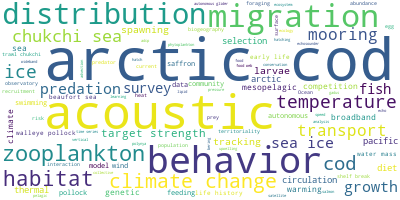
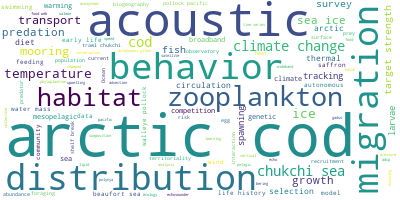
Deary 2021

diff --git a/README.md b/README.md
@@ -168,6 +168,8 @@ Notes (author, year, journal in file header) on readings.  Top of each note docu
      * This paper presents evidence of jellyfish avoidance by Arctic cod in a shallow bay of the Canadian Arctic Archipelago.  The authors describe observations of partitioning which they attribute primarily to avoidance. 
 * [Dahlke2018SA - Northern cod species face spawning habitat losses if global warming exceeds 1.5°C](https://github.com/leviner/ReadingList/tree/master/papers/arctic/fishes/Dahlke2018SA.md) 
      * Investigating the mpact of temperature and pCO2 on egg and larval development from broodstock. Additionally, they model loss of appropriate spawning areas based on future climate scenarios. 
+* [Deary2021PB - Seasonal abundance, distribution, and growth of the early life stages of polar cod (Boreogadus saida) and safron cod (Eleginus gracilis) in the US Arctic](https://github.com/leviner/ReadingList/tree/master/papers/arctic/fishes/Deary2021PB.md) 
+     * Early life history stages of Arctic and saffron cod in 2017, using trhe Vestfals 2021 model to replicate 2017 from the bottom trawl data. 
 * [DeRobertis2015DSRIIa - Species and size selectivity of two midwater trawls used in an acoustic survey of the Alaska Arctic](https://github.com/leviner/ReadingList/tree/master/papers/arctic/fishes/DeRobertis2015DSRIIa.md) 
      * De Robertis et al. conducted a trawl selectivity experiment using recapture nets on a modified-Marinovich trawl to asses the species- and size-specific selectivity.  There is significant escapement, even for the most abundant species, and this analysis is required to properly calculate biomass/abundance estimates for juvenile Arctic cod. 
 * [DeRobertis2017DSRIIb - Abundance and distribution of Arctic cod (Boreogadus saida) and other pelagic fishes over the U.S. Continental Shelf of the Northern Bering and Chukchi Seas](https://github.com/leviner/ReadingList/tree/master/papers/arctic/fishes/DeRobertis2017DSRIIb.md) 
@@ -311,6 +313,8 @@ Notes (author, year, journal in file header) on readings.  Top of each note docu
  
 * [Ashjian2017DSRII - Mesozooplankton abundance and distribution in association with hydrography on Hanna Shoal, NE Chukchi Sea, during August 2012 and 2013](https://github.com/leviner/ReadingList/tree/master/papers/arctic/plankton/Ashjian2017DSRII.md) 
      * Description of the late-summer zooplankton community composition at Hannah Shoal during August of 2012 and 2013, focusing on copepods and euphausiids of interest for bowhead whales. 
+* [Ashjian2021PLOS - Lingering Chukchi Sea sea ice and Chukchi Sea mean winds influence population age structure of euphausiids (krill) found in the bowhead whale feeding hotspot near Pt. Barrow, Alaska](https://github.com/leviner/ReadingList/tree/master/papers/arctic/plankton/Ashjian2021PLOS.md) 
+     *  
 * [Darnis2019PO - Could offspring predation offset the successful reproduction of the arctic copepod Calanus hyperboreus under reduced sea-ice cover conditions?](https://github.com/leviner/ReadingList/tree/master/papers/arctic/plankton/Darnis2019PO.md) 
      * Year-round observations of C. hyperboreus growth and reproduction in the Canadian Beaufort Sea.  Hypothesize top-down control of the C. hyperboreus population by other omnivore species (M. longa, C. glacialis), increased by extended ice-free periods. 
 * [Day2013CSR - The offshore northeastern Chukchi Sea, Alaska: A complex high-latitude ecosystem](https://github.com/leviner/ReadingList/tree/master/papers/arctic/plankton/Day2013CSR.md) 

diff --git a/papers/arctic/fishes/Deary2021PB.md b/papers/arctic/fishes/Deary2021PB.md
@@ -1,0 +1,38 @@
+09/22/21
+## Authors:
+Deary, Alison L and Vestfals, Cathleen D and Logerwell, Elizabeth A and Goldstein, Esther D and Stabeno, Phyllis J and Danielson, Seth L and Hopcroft, Russ R and Duffy-Anderson, Janet T
+## Title:
+Seasonal abundance, distribution, and growth of the early life stages of polar cod (Boreogadus saida) and safron cod (Eleginus gracilis) in the US Arctic
+## Keywords:
+Gadidae, icthyoplankton, forage fishes, chukchi sea, Arctic cod
+## Geographic Coverage
+Chukchi Sea
+## Field Dates:
+06/10/2017 - 09/25/2017
+## Significance:
+Early life history stages of Arctic and saffron cod in 2017, using trhe Vestfals 2021 model to replicate 2017 from the bottom trawl data.
+
+## Notes:
+The goals for the study were to 1) examine distributions and abundance of Arctic cod and saffron cod during ELH stages, 2) estimate daily growth rates, and 3) look at the potential sources using a individual based mofel to compare model outputs and observed distributions.
+
+Samples were collected using a mix of bongo nets, IKMTs, and 3-m beam trawls on 4 different cruises during 2017. Catches were all normalised to CPUE (count per 10m2 of surface area). Growth rates were determined from the change in mean length during the median date of each survey and was gear-specific.
+
+IBM were run based on the model from Vestfals et al., 2021, focussing on the Kotzebue sound spawning population as a result of the high density of ELH fishes found there during the late-spring survey.
+
+Results for Arctic cod:
+- In June, most fishes were found in Kotzebue/Point Hope, north of the strait (note, the survey did nto extend north of this).
+- In late summer, the highest densities were found in the northern survey area near Hannah shoal and Barrow Canyon.
+- Growth rate: 0.27 - 0.53 mm /day. pverall mean of 0.39 mm/day (note Levine et al., 2021 reported 0.54 with a range of 0.24 to 0.89 depending on target strength)
+
+Saffron cod:
+- Lower abundance relative to polar cod, with a core distribition in the south and inshore of Arctic cod
+- In late summer, mostly found nearshore in the central/NE Chukchi.
+
+IBM:
+- Larvae with simulated hatch dates of 15 March to 15 May all show similar trajectories, remaining in the Kotzebue sound region and extending north along the coast in late spring. By late summer, this splits into two groups one that remained inshore along the coast line to the north and another branch of fishes advected offshore.
+
+Kotzebue sound was covered in sea ice during the expetced period of hatch for fishe sin Kotzebue sound, thus sea ice may be important for both species. These fish were likely entrained in the ACC and avected northwards.
+
+It is likely that indnividuals of mixed cohorts were present in the Chukchi Sea. Hatching occurred between January and May, with a peak in April. However there is also likely some sampling bias as the smallest individuals may not be properly retained thus biasing towards larger individuals in spring.
+
+They conclude that Kotzebue sound is likely a major spawning area, however their distributions from the model do not match 2017 distributions from the midwater trawls.

diff --git a/papers/arctic/plankton/Ashjian2021PLOS.md b/papers/arctic/plankton/Ashjian2021PLOS.md
@@ -8,8 +8,18 @@ zooplankton, composition, distribution, copepod
 ## Geographic Coverage
 Chukchi Sea, Beaufort Sea
 ## Field Dates:
-
+N/A
 ## Significance:
 
 
 ## Notes:
+Goal is to investigate if the krill population structure is correlated with large-scale atmospheric drivers and water masses/sea ice.
+
+Data
+- 10 years (2005 - 2015) of collections at DBO 5 near Barrow Canyon
+- Zooplankton collections using a ring net or tucker trawl
+- CTD collections
+- Sea ice concentration from the NOAA OISST
+- Sea level pressure and winds from NCEP
+
+There are three key species of euphausiids (T. rashcii, T. inermi, and T. longipes, though longipes was rare). The proportion of juveniles and adults varied interannually, and together among species. This proportion (JAD) was strongly correlated with the late-spring Chukchi Sea ice extent (comparison of normalized anomaly). It was also well correlated with the volume of late season melt water, thus years with late ice retreat (and high volume of meltwater remaining late in season) were associated with a higher proportion of juveniles and adults near Pt. Barrow.
